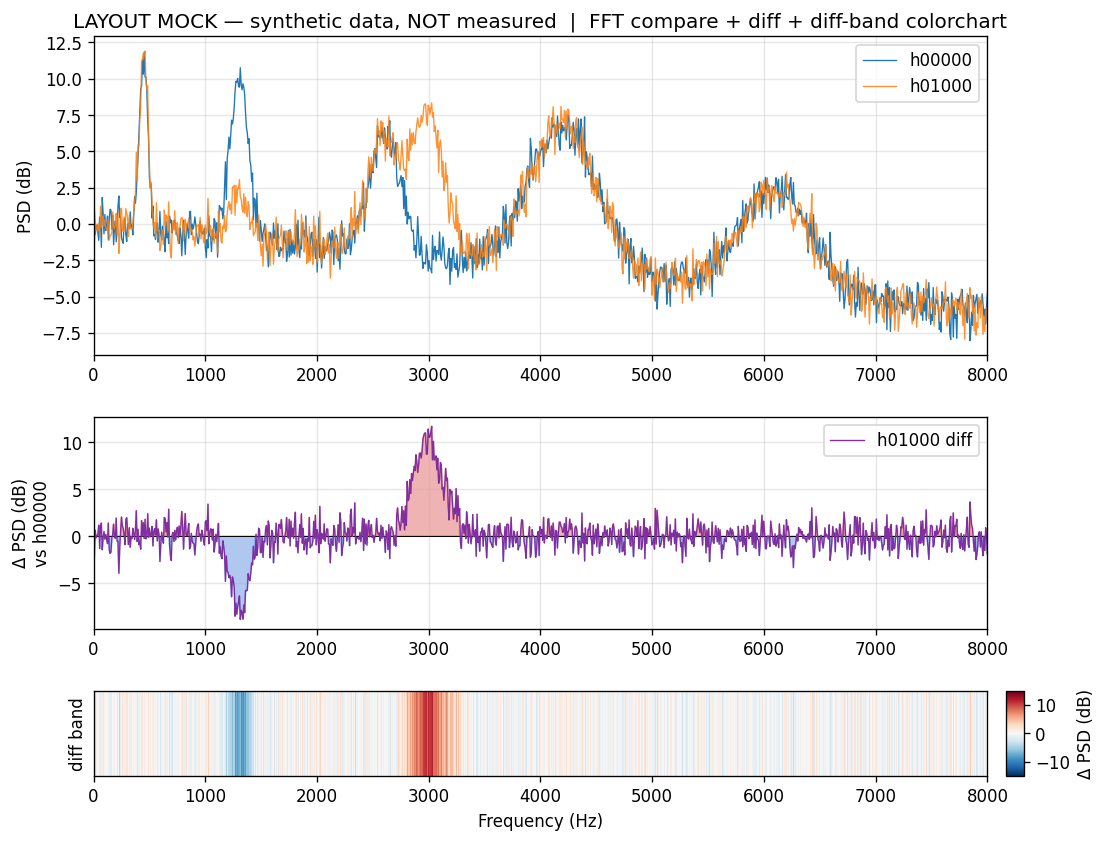
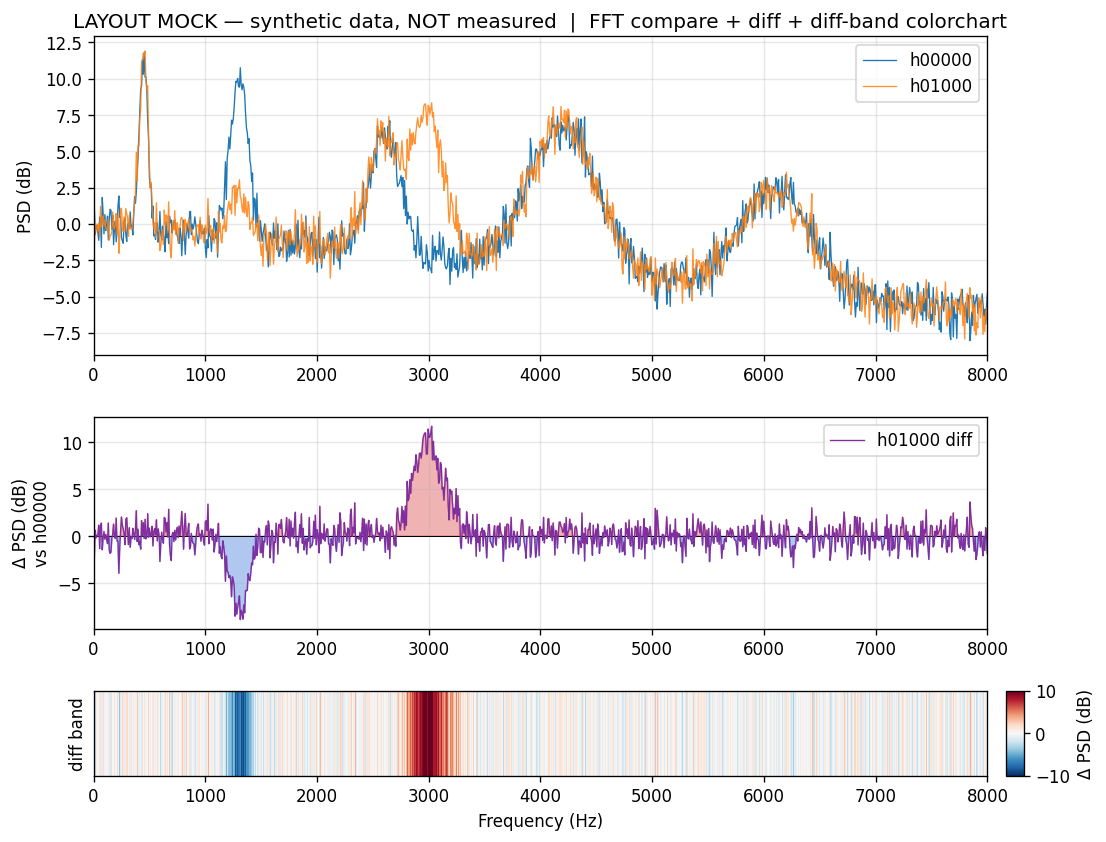
docs(figures): 帯カラーチャートの色域を ±10 dB に変更
±15 → ±10 dB。1 ビット状態差の主要ピーク (±10 dB 級) が色域いっぱいに
出るようにし、帯 5 図を再生成。10 dB 超の bin は端の色にクリップ。

diff --git a/pc/gen_fftdiff_band_pair.py b/pc/gen_fftdiff_band_pair.py
@@ -38,9 +38,9 @@ from gen_fftdiff_band import (  # noqa: E402
 )
 
 # 帯カラーチャートの色域 (±dB)。full_32_eval_v1 の全 31 状態 vs s00000 の diff の
-# 最大は 25.3 dB (s10110) だが、小さい変化の視認性を優先して ±15 dB とする
-# (15 dB 超の bin は端の色にクリップ)
-DEFAULT_CLIM_DB = 15.0
+# 最大は 25.3 dB (s10110) だが、小さい変化の視認性を優先して ±10 dB とする
+# (10 dB 超の bin は端の色にクリップ)
+DEFAULT_CLIM_DB = 10.0
 
 
 def main(argv=None) -> int:

diff --git a/pc/gen_fftdiff_band.py b/pc/gen_fftdiff_band.py
@@ -33,7 +33,7 @@ import numpy as np
 
 FMAX_HZ = 8000.0   # 表示上限 (16 kHz / 2)
 DIVERGE_CMAP = "RdBu_r"  # 0 = 白背景 (coolwarm は 0 がグレーになるため不採用)
-DIVERGE_CLIM = 15.0  # ±dB (gen_fftdiff_band_pair.py と同一基準。小変化の視認性優先)
+DIVERGE_CLIM = 10.0  # ±dB (gen_fftdiff_band_pair.py と同一基準。小変化の視認性優先)
 
 
 def load_wav(path: Path):

diff --git a/docs/figures_spec.md b/docs/figures_spec.md
@@ -61,7 +61,7 @@ FFT は `_save_fft_plot` 準拠（semilogx, 平均スペクトル, dB）。
 |---|---|
 | 段1 | h00000 / h01000 の平均 FFT（Welch PSD, dB）を重ね描き |
 | 段2 | 差分線 `(h01000 − h00000)` dB、0 基準・正負で赤/青塗り |
-| 段3 | 段2 の差分を**帯カラーチャート**で表示（発散カラーマップ RdBu_r 0=白, ±15 dB, 右にカラーバー `Δ PSD (dB)`）。全図共通基準。 |
+| 段3 | 段2 の差分を**帯カラーチャート**で表示（発散カラーマップ RdBu_r 0=白, ±10 dB, 右にカラーバー `Δ PSD (dB)`）。全図共通基準。 |
 
 - 生成スクリプト: `pc/gen_fftdiff_band.py`（`--wav0/--wav1` で実データ、`--mock` でレイアウト確認）
 - **レイアウト確認用モック（合成データ・実測ではない）**: `docs/img/fftdiff_band_MOCK.png` を生成済み。
